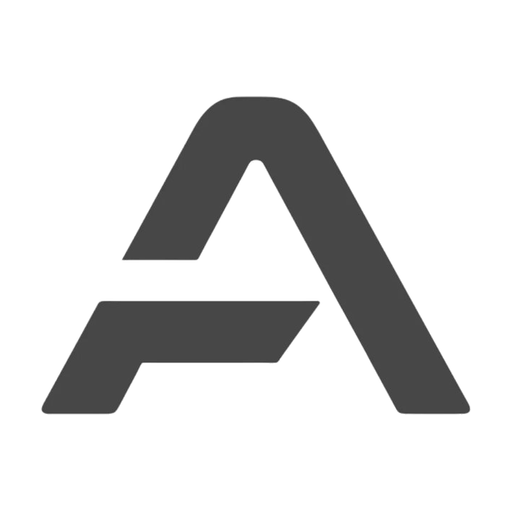
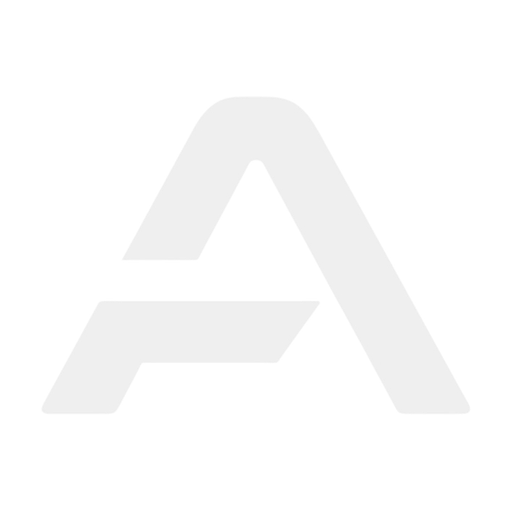
fix(web): ikon tab memakai varian tinta terang saja
Sebelumnya ada dua tautan ikon: satu bermedia `prefers-color-scheme: dark`,
satu tanpa media sebagai bawaan. Browser memilih tautan cocok yang terakhir
disebut, dan yang tanpa media selalu cocok serta selalu berada di belakang —
sehingga varian gelapnya praktis tidak pernah terpakai, termasuk di bilah tab
yang gelap.

Kini satu tautan saja, memakai varian tinta terang. Pilihan pemiliknya, dan
bilah tab gelap memang yang paling umum di antara pemakai aplikasi ini.
Konsekuensinya disebut terang-terangan: di bilah tab terang lambangnya akan
samar. Berkas varian gelap dihapus karena tidak ada lagi yang memakainya.

Lambang di dalam aplikasi tidak berubah — ia tetap mengikuti tema, karena di
sana latarnya memang berganti bersama tema.

Changed region(s): [[0.0625, 0.1875, 0.9375, 0.8125]]

diff --git a/apps/web/app/layout.tsx b/apps/web/app/layout.tsx
@@ -2,7 +2,6 @@ import type { Metadata } from 'next';
 import type { ReactNode } from 'react';
 import { NotifierProvider } from './components/notifier';
 import './styles.css';
-import lambangGelap from './icon-gelap.png';
 
 /**
  * Lingkungan tempat salinan ini berjalan.
@@ -37,18 +36,6 @@ export const metadata: Metadata = {
 export default function RootLayout({ children }: Readonly<{ children: ReactNode }>) {
   return (
     <html lang="id">
-      {/* Ikon tab kedua, untuk bilah tab mode gelap. Lambang bertinta gelap
-          nyaris hilang di sana, jadi satu berkas saja berarti separuh pengguna
-          melihat ruang kosong di tabnya.
-
-          Ditulis sebagai `<link>` alih-alih lewat `metadata.icons`, karena
-          mengisi `metadata.icons` mematikan tautan bawaan yang disisipkan Next
-          dari `app/icon.png` — dan tautan bawaan itulah yang membawa sidik jari
-          isi berkas. Tanpa sidik jari, `/icon.png` polos dilayani
-          `immutable, max-age=31536000` dan lambang yang sudah diganti tetap
-          tampil versi lama tanpa cara memberi tahu browser. Berkas gelapnya
-          diimpor supaya alamatnya ikut ber-sidik jari. */}
-      <link rel="icon" type="image/png" href={lambangGelap.src} media="(prefers-color-scheme: dark)" />
       <body>
         {/* Penanda yang sulit dilewatkan. Tanpanya, staging dan produksi tampak
             persis sama — dan orang akan mengira sudah menghapus sesuatu di
